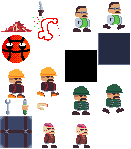
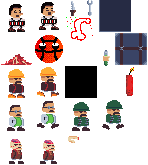
bomber

diff --git a/site/public/js/main.js b/site/public/js/main.js
@@ -1532,7 +1532,7 @@ eval("\r\nObject.defineProperty(exports, \"__esModule\", { value: true });\r\nex
 /***/ (function(module, exports, __webpack_require__) {
 
 "use strict";
-eval("\r\nObject.defineProperty(exports, \"__esModule\", { value: true });\r\nexports.ENGINEER_SPEED = exports.ENGINEER_ATTACK_STRENGTH = exports.SCIENTIST_SPEED = exports.SCIENTIST_ATTACK_STRENGTH = exports.SOLDIER_SPEED = exports.SOLDIER_ATTACK_STRENGTH = exports.BOMBER_SPEED = exports.BOMBER_ATTACK_STRENGTH = exports.ZOMBIE_ATTACK_DISTANCE = exports.CHARACTER_SELECT = exports.CHARACTER_FOLLOW_DIST = exports.CHARACTER_SPEAD_DIST = exports.CHARACTER_ATTACK_BUMP_STRENGTH = exports.CHARACTER_ATTACK_ARC = exports.CHARACTER_ATTACK_DISTANCE = exports.CHARACTER_MOUSE_DISANCE_INFLUENCE = exports.CHARACTER_LOWER_DROP = exports.CHARACTER_HAND_DISTANCE = exports.CHARACTER_HAND_SIZE = exports.CHARACTER_HEALTH_SHOWN = exports.CHARACTER_HEALTH_HEIGHT = exports.CHARACTER_HEALTH_WIDTH = exports.CHARACTER_ANIMATION_SPEED_THRESHOLD = exports.CHARACTER_ANIMATION_MULTIPLIER = exports.TILE_HEIGHT = exports.TILE_WIDTH = exports.IS_DEV_MODE = exports.SCENERY_PIXEL_DENSITY = exports.DEFAULT_PLAYER_RADIUS = exports.DEFAULT_PLAYER_HEIGHT = exports.TARGET_MILLIS = exports.TARGET_FPS = exports.ZFAR = exports.ZNEAR = exports.FOV = exports.ASPECT_RATIO = exports.HEIGHT = exports.WIDTH = exports.RES_DIV = exports.DOM_HEIGHT = exports.DOM_WIDTH = exports.VERSION = exports.MAJOR = exports.PHASE = exports.MINOR = exports.GAME_NAME = void 0;\r\nexports.GAME_NAME = \"Da Bomb!\";\r\nexports.MINOR = \"1\";\r\nexports.PHASE = \"0\";\r\nexports.MAJOR = \"1\";\r\nexports.VERSION = `V${exports.MAJOR}.${exports.PHASE}.${exports.MINOR}`;\r\nexports.DOM_WIDTH = 1280;\r\nexports.DOM_HEIGHT = 680;\r\nexports.RES_DIV = 4;\r\nexports.WIDTH = exports.DOM_WIDTH / exports.RES_DIV;\r\nexports.HEIGHT = exports.DOM_HEIGHT / exports.RES_DIV;\r\nexports.ASPECT_RATIO = exports.DOM_WIDTH / exports.DOM_HEIGHT;\r\nexports.FOV = 45;\r\nexports.ZNEAR = 0;\r\nexports.ZFAR = 10000;\r\nexports.TARGET_FPS = 60;\r\nexports.TARGET_MILLIS = Math.floor(1000 / exports.TARGET_FPS);\r\nexports.DEFAULT_PLAYER_HEIGHT = 0.5;\r\nexports.DEFAULT_PLAYER_RADIUS = 0.5;\r\nexports.SCENERY_PIXEL_DENSITY = 10;\r\nconst IS_DEV_MODE = () => false;\r\nexports.IS_DEV_MODE = IS_DEV_MODE;\r\n// export const IS_DEV_MODE = () => false;\r\n// Each tile is 64x64 pixels\r\nexports.TILE_WIDTH = 32;\r\nexports.TILE_HEIGHT = 32;\r\n// Increase this to make character animation faster\r\nexports.CHARACTER_ANIMATION_MULTIPLIER = 0.1;\r\nexports.CHARACTER_ANIMATION_SPEED_THRESHOLD = 0.01;\r\nexports.CHARACTER_HEALTH_WIDTH = 20;\r\nexports.CHARACTER_HEALTH_HEIGHT = 2;\r\nexports.CHARACTER_HEALTH_SHOWN = 2000;\r\nexports.CHARACTER_HAND_SIZE = 10;\r\nexports.CHARACTER_HAND_DISTANCE = 10;\r\nexports.CHARACTER_LOWER_DROP = 4;\r\nexports.CHARACTER_MOUSE_DISANCE_INFLUENCE = 0.2;\r\nexports.CHARACTER_ATTACK_DISTANCE = 32;\r\nexports.CHARACTER_ATTACK_ARC = 80; // degrees\r\nexports.CHARACTER_ATTACK_BUMP_STRENGTH = 8;\r\nexports.CHARACTER_SPEAD_DIST = 30;\r\nexports.CHARACTER_FOLLOW_DIST = 60;\r\n// The weighting of the character selection,\r\n// higher values make it less random and more likely to follow a pattern,\r\n// lower values make it more random\r\nexports.CHARACTER_SELECT = 1;\r\nexports.ZOMBIE_ATTACK_DISTANCE = 20;\r\n// Bomber stats\r\nexports.BOMBER_ATTACK_STRENGTH = 2;\r\nexports.BOMBER_SPEED = 2;\r\n// Soldier stats\r\nexports.SOLDIER_ATTACK_STRENGTH = 6;\r\nexports.SOLDIER_SPEED = 1;\r\n// Scientist stats\r\nexports.SCIENTIST_ATTACK_STRENGTH = 1;\r\nexports.SCIENTIST_SPEED = 0.7;\r\n// Engineer stats\r\nexports.ENGINEER_ATTACK_STRENGTH = 3;\r\nexports.ENGINEER_SPEED = 1;\r\n//# sourceMappingURL=Config.js.map\n\n//# sourceURL=webpack:///./site/build/client/Config.js?");
+eval("\r\nObject.defineProperty(exports, \"__esModule\", { value: true });\r\nexports.ENGINEER_SPEED = exports.ENGINEER_ATTACK_STRENGTH = exports.SCIENTIST_SPEED = exports.SCIENTIST_ATTACK_STRENGTH = exports.SOLDIER_SPEED = exports.SOLDIER_ATTACK_STRENGTH = exports.BOMBER_SPEED = exports.BOMBER_ATTACK_STRENGTH = exports.ZOMBIE_ATTACK_DISTANCE = exports.CHARACTER_SELECT = exports.CHARACTER_FOLLOW_DIST = exports.CHARACTER_SPEAD_DIST = exports.CHARACTER_ATTACK_BUMP_STRENGTH = exports.CHARACTER_ATTACK_ARC = exports.CHARACTER_ATTACK_DISTANCE = exports.CHARACTER_MOUSE_DISANCE_INFLUENCE = exports.CHARACTER_LOWER_DROP = exports.CHARACTER_HAND_DISTANCE = exports.CHARACTER_HAND_SIZE = exports.CHARACTER_HEALTH_SHOWN = exports.CHARACTER_HEALTH_HEIGHT = exports.CHARACTER_HEALTH_WIDTH = exports.CHARACTER_ANIMATION_SPEED_THRESHOLD = exports.CHARACTER_ANIMATION_MULTIPLIER = exports.TILE_HEIGHT = exports.TILE_WIDTH = exports.IS_DEV_MODE = exports.SCENERY_PIXEL_DENSITY = exports.DEFAULT_PLAYER_RADIUS = exports.DEFAULT_PLAYER_HEIGHT = exports.TARGET_MILLIS = exports.TARGET_FPS = exports.ZFAR = exports.ZNEAR = exports.FOV = exports.ASPECT_RATIO = exports.HEIGHT = exports.WIDTH = exports.RES_DIV = exports.DOM_HEIGHT = exports.DOM_WIDTH = exports.VERSION = exports.MAJOR = exports.PHASE = exports.MINOR = exports.GAME_NAME = void 0;\r\nexports.GAME_NAME = \"Da Bomb!\";\r\nexports.MINOR = \"1\";\r\nexports.PHASE = \"0\";\r\nexports.MAJOR = \"1\";\r\nexports.VERSION = `V${exports.MAJOR}.${exports.PHASE}.${exports.MINOR}`;\r\nexports.DOM_WIDTH = 1280;\r\nexports.DOM_HEIGHT = 680;\r\nexports.RES_DIV = 4;\r\nexports.WIDTH = exports.DOM_WIDTH / exports.RES_DIV;\r\nexports.HEIGHT = exports.DOM_HEIGHT / exports.RES_DIV;\r\nexports.ASPECT_RATIO = exports.DOM_WIDTH / exports.DOM_HEIGHT;\r\nexports.FOV = 45;\r\nexports.ZNEAR = 0;\r\nexports.ZFAR = 10000;\r\nexports.TARGET_FPS = 60;\r\nexports.TARGET_MILLIS = Math.floor(1000 / exports.TARGET_FPS);\r\nexports.DEFAULT_PLAYER_HEIGHT = 0.5;\r\nexports.DEFAULT_PLAYER_RADIUS = 0.5;\r\nexports.SCENERY_PIXEL_DENSITY = 10;\r\nconst IS_DEV_MODE = () => false;\r\nexports.IS_DEV_MODE = IS_DEV_MODE;\r\n// export const IS_DEV_MODE = () => false;\r\n// Each tile is 64x64 pixels\r\nexports.TILE_WIDTH = 32;\r\nexports.TILE_HEIGHT = 32;\r\n// Increase this to make character animation faster\r\nexports.CHARACTER_ANIMATION_MULTIPLIER = 0.1;\r\nexports.CHARACTER_ANIMATION_SPEED_THRESHOLD = 0.01;\r\nexports.CHARACTER_HEALTH_WIDTH = 20;\r\nexports.CHARACTER_HEALTH_HEIGHT = 2;\r\nexports.CHARACTER_HEALTH_SHOWN = 2000;\r\nexports.CHARACTER_HAND_SIZE = 10;\r\nexports.CHARACTER_HAND_DISTANCE = 10;\r\nexports.CHARACTER_LOWER_DROP = 4;\r\nexports.CHARACTER_MOUSE_DISANCE_INFLUENCE = 0.2;\r\nexports.CHARACTER_ATTACK_DISTANCE = 32;\r\nexports.CHARACTER_ATTACK_ARC = 80; // degrees\r\nexports.CHARACTER_ATTACK_BUMP_STRENGTH = 8;\r\nexports.CHARACTER_SPEAD_DIST = 30;\r\nexports.CHARACTER_FOLLOW_DIST = 60;\r\n// The weighting of the character selection,\r\n// higher values make it less random and more likely to follow a pattern,\r\n// lower values make it more random\r\nexports.CHARACTER_SELECT = 1;\r\nexports.ZOMBIE_ATTACK_DISTANCE = 20;\r\n// Bomber stats\r\nexports.BOMBER_ATTACK_STRENGTH = 2;\r\nexports.BOMBER_SPEED = 1.4;\r\n// Soldier stats\r\nexports.SOLDIER_ATTACK_STRENGTH = 6;\r\nexports.SOLDIER_SPEED = 1;\r\n// Scientist stats\r\nexports.SCIENTIST_ATTACK_STRENGTH = 1;\r\nexports.SCIENTIST_SPEED = 0.7;\r\n// Engineer stats\r\nexports.ENGINEER_ATTACK_STRENGTH = 3;\r\nexports.ENGINEER_SPEED = 1;\r\n//# sourceMappingURL=Config.js.map\n\n//# sourceURL=webpack:///./site/build/client/Config.js?");
 
 /***/ }),
 
@@ -1676,7 +1676,7 @@ eval("\r\nObject.defineProperty(exports, \"__esModule\", { value: true });\r\nex
 /***/ (function(module, exports, __webpack_require__) {
 
 "use strict";
-eval("\r\nObject.defineProperty(exports, \"__esModule\", { value: true });\r\nexports.Bomber = void 0;\r\nconst Config_1 = __webpack_require__(/*! ../../Config */ \"./site/build/client/Config.js\");\r\nconst Player_1 = __webpack_require__(/*! ./Player */ \"./site/build/client/engine/entities/Player.js\");\r\nconst BOMBER_WIDTH = 30;\r\nconst BOMBER_HEIGHT = 30;\r\nclass Bomber extends Player_1.Player {\r\n    constructor(serviceLocator, x, y) {\r\n        super(serviceLocator, x, y, \"miner\", BOMBER_WIDTH, BOMBER_HEIGHT, \"test_tube\");\r\n        this.name = \"Bomber\";\r\n        this.damage = Config_1.BOMBER_ATTACK_STRENGTH;\r\n        this.speed = Config_1.BOMBER_SPEED;\r\n    }\r\n    update(serviceLocator) {\r\n        super.update(serviceLocator);\r\n    }\r\n    onAddedToWorld(serviceLocator) {\r\n    }\r\n    onRemovedFromWorld(serviceLocator) {\r\n    }\r\n}\r\nexports.Bomber = Bomber;\r\n//# sourceMappingURL=Bomber.js.map\n\n//# sourceURL=webpack:///./site/build/client/engine/entities/Bomber.js?");
+eval("\r\nObject.defineProperty(exports, \"__esModule\", { value: true });\r\nexports.Bomber = void 0;\r\nconst Config_1 = __webpack_require__(/*! ../../Config */ \"./site/build/client/Config.js\");\r\nconst Player_1 = __webpack_require__(/*! ./Player */ \"./site/build/client/engine/entities/Player.js\");\r\nconst BOMBER_WIDTH = 30;\r\nconst BOMBER_HEIGHT = 30;\r\nclass Bomber extends Player_1.Player {\r\n    constructor(serviceLocator, x, y) {\r\n        super(serviceLocator, x, y, \"bomber\", BOMBER_WIDTH, BOMBER_HEIGHT, \"tnt\");\r\n        this.name = \"Bomber\";\r\n        this.damage = Config_1.BOMBER_ATTACK_STRENGTH;\r\n        this.speed = Config_1.BOMBER_SPEED;\r\n    }\r\n    update(serviceLocator) {\r\n        super.update(serviceLocator);\r\n    }\r\n    onAddedToWorld(serviceLocator) {\r\n    }\r\n    onRemovedFromWorld(serviceLocator) {\r\n    }\r\n}\r\nexports.Bomber = Bomber;\r\n//# sourceMappingURL=Bomber.js.map\n\n//# sourceURL=webpack:///./site/build/client/engine/entities/Bomber.js?");
 
 /***/ }),
 

diff --git a/site/src/client/engine/entities/Bomber.ts b/site/src/client/engine/entities/Bomber.ts
@@ -12,7 +12,7 @@ export class Bomber extends Player {
     public name: string = "Bomber";
 
     public constructor(serviceLocator: ServiceLocator, x: number, y: number) {
-        super(serviceLocator, x, y, "miner", BOMBER_WIDTH, BOMBER_HEIGHT, "test_tube");
+        super(serviceLocator, x, y, "bomber", BOMBER_WIDTH, BOMBER_HEIGHT, "tnt");
         this.damage = BOMBER_ATTACK_STRENGTH;
         this.speed = BOMBER_SPEED;
     }

diff --git a/site/src/client/Config.ts b/site/src/client/Config.ts
@@ -62,7 +62,7 @@ export const ZOMBIE_ATTACK_DISTANCE = 20;
 
 // Bomber stats
 export const BOMBER_ATTACK_STRENGTH = 2
-export const BOMBER_SPEED = 2
+export const BOMBER_SPEED = 1.4
 
 // Soldier stats
 export const SOLDIER_ATTACK_STRENGTH = 6
